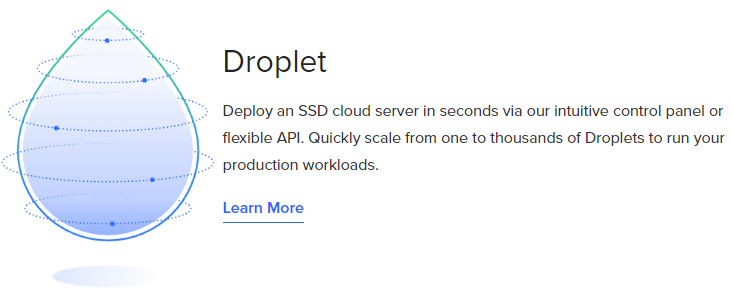
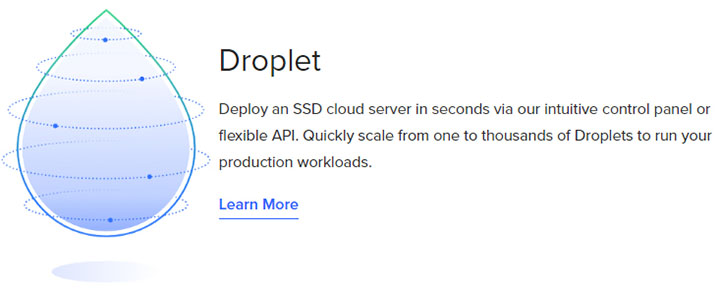
Image optimization

diff --git a/posts/1.html b/posts/1.html
@@ -11,7 +11,7 @@
     el menu de Droplets despues dar click en el boton Create y nos desplegara un submenu donde daremos 
     nuevamente click en la opcion de Droplets.
 </p>
-<img class="img_card" src="assets/img/do_01.png"/>
+<img class="img_card" src="assets/img/do_01.jpg"/>
 
 <h2>Sistema Operativo</h2>
 
@@ -20,7 +20,7 @@
   nos pedira que seleccionemos el sistema operativo que tendra nuestro servidor, por default viene seleccionado 
   Ubuntu que es el que regularmente uso.
 </p>
-<img class="img_card" src="assets/img/do_02.png"/>
+<img class="img_card" src="assets/img/do_02.jpg"/>
 
 <h2>Capacidad</h2>
 
@@ -28,20 +28,20 @@
   Ahora debemos seleccionar cuanta memoria ram, espacio y procesador queremos para nuestro Droplet 
   y generalmente el mas economico sera mas que suficiente.
 </p>
-<img class="img_card" src="assets/img/do_03.png"/>
+<img class="img_card" src="assets/img/do_03.jpg"/>
 
 <h2>Backups</h2>
 <p>
   Despues nos da la opcion de agregar Backups para con esto contar con un respaldo de nuestro servidor
   por si llega a haber un problema poder crear otro servidor con el respaldo.
 </p>
-<img class="img_card" src="assets/img/do_04.png"/>
+<img class="img_card" src="assets/img/do_04.jpg"/>
 
 <h2>Region</h2>
 <p>
   Ahora debemos seleccionar una region donde nuestro Droplet sera creado.
 </p>
-<img class="img_card" src="assets/img/do_05.png"/>
+<img class="img_card" src="assets/img/do_05.jpg"/>
 
 <h2>Opciones adicionales</h2>
 <p>
@@ -51,20 +51,20 @@
   para ingresar con un usuario y password. 
   Al final de estas opciones nos pregunta cuantos Droplets queremos crear y cual es el nombre que le queremos dar al servidor.
 </p>
-<img class="img_card" src="assets/img/do_06.png"/>
+<img class="img_card" src="assets/img/do_06.jpg"/>
 
 <h2>Crear droplet</h2>
 <p>
   Por ultimo le damos click al boton Create y el proceso de creacion iniciara.
 </p>
-<img class="img_card" src="assets/img/do_07.png"/>
+<img class="img_card" src="assets/img/do_07.jpg"/>
 
 <h2>Finalizar</h2>
 <p>
   Este proceso de creacion dura poco menos de 30 segundos y despues de terminar podremos ingresar 
   a nuestro Droplet para poder configurarlo.
 </p>
-<img class="img_card" src="assets/img/do_08.png"/>
+<img class="img_card" src="assets/img/do_08.jpg"/>
 
 <p>
   En el siguiente post veremos como configurar este Droplet para instalarle un servidor web 
